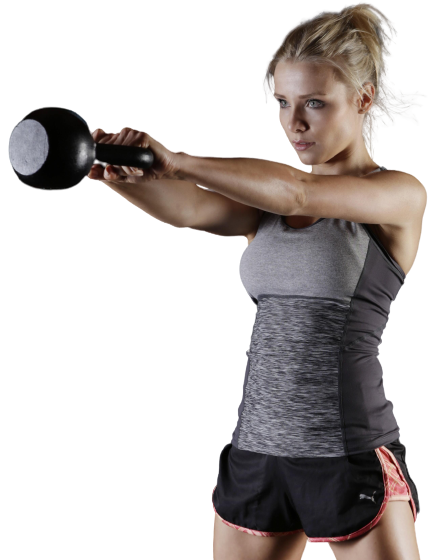
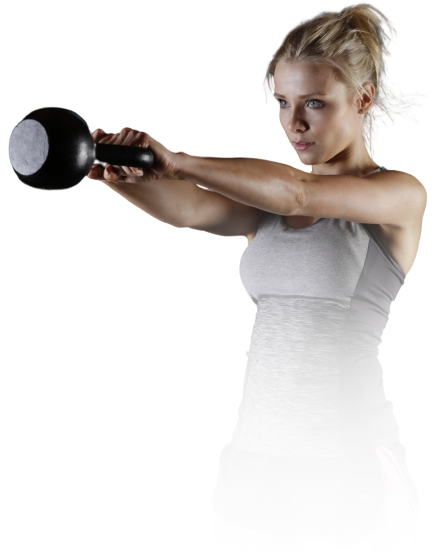
- fade images

Changed region(s): [[0.3798, 0.3643, 0.964, 1.0]]

diff --git a/lib/widgets/animated_circle_transition_widget.dart b/lib/widgets/animated_circle_transition_widget.dart
@@ -1,0 +1,88 @@
+import 'package:flutter/material.dart';
+import 'package:flutter/widgets.dart';
+
+class AnimatedCircleTransitionWidget extends StatefulWidget {
+  final Widget child;
+  final Duration duration;
+  final Duration initialDelayDuration;
+
+  const AnimatedCircleTransitionWidget(
+      {Key? key,
+      required this.child,
+      this.duration = const Duration(milliseconds: 1000),
+      this.initialDelayDuration = const Duration(milliseconds: 2300)})
+      : super(key: key);
+
+  @override
+  _AnimatedCircleTransitionWidgetState createState() => _AnimatedCircleTransitionWidgetState();
+}
+
+class _AnimatedCircleTransitionWidgetState extends State<AnimatedCircleTransitionWidget>
+    with TickerProviderStateMixin {
+  late AnimationController _animationController;
+  late Tween<double> tweenStackPosition;
+  late Tween<double> tweenBorderRadius;
+  late Tween<double> tweenTwist;
+  late Tween<double> tweenHeight;
+  late CurvedAnimation curvedAnimation;
+  int heightAddition = 0;
+
+  @override
+  void initState() {
+    super.initState();
+    _animationController = AnimationController(vsync: this, duration: widget.duration);
+    curvedAnimation = CurvedAnimation(parent: _animationController, curve: Curves.decelerate);
+    tweenBorderRadius = Tween<double>(begin: 1000, end: 0);
+    tweenStackPosition = Tween<double>(begin: -1000, end: 0);
+    tweenTwist = Tween<double>(begin: -1.2, end: 0);
+    tweenHeight = Tween<double>(begin: 0, end: 1000);
+    init();
+  }
+
+  void init() async {
+    await Future.delayed(widget.initialDelayDuration);
+    await _animationController.forward();
+  }
+
+  @override
+  Widget build(BuildContext context) {
+    final widgetSize = MediaQuery.of(context).size.width;
+    return Column(
+      mainAxisAlignment: MainAxisAlignment.center,
+      children: [
+        AnimatedBuilder(
+            child: widget.child,
+            animation: curvedAnimation,
+            builder: (context, child) {
+              return ClipRRect(
+                  borderRadius: getCircleBorderRadius(),
+                  child: Container(
+                      width: widgetSize * curvedAnimation.value,
+                      height: getHeight(widgetSize),
+                      child: Stack(
+                        children: [
+                          Positioned(
+                              right: tweenStackPosition.animate(curvedAnimation).value,
+                              left: tweenStackPosition.animate(curvedAnimation).value,
+                              top: tweenStackPosition.animate(curvedAnimation).value,
+                              bottom: tweenStackPosition.animate(curvedAnimation).value,
+                              child: Transform.rotate(
+                                  angle: tweenTwist.animate(curvedAnimation).value, child: child!)),
+                        ],
+                      )));
+            }),
+      ],
+    );
+  }
+
+  double getHeight(double widgetSize) {
+    if (curvedAnimation.value > 0.8 && heightAddition < 100) {
+      heightAddition += 3;
+    }
+    return widgetSize * curvedAnimation.value + heightAddition;
+  }
+
+  BorderRadius? getCircleBorderRadius() {
+    return BorderRadius.circular(tweenBorderRadius.animate(_animationController).value);
+  }
+}

diff --git a/lib/features/welcome/welcome_page.dart b/lib/features/welcome/welcome_page.dart
@@ -3,6 +3,8 @@ import 'package:flutter/painting.dart';
 import 'package:flutter/widgets.dart';
 import 'package:flutter_app_template/features/welcome/welcome_event.dart';
 import 'package:flutter_app_template/features/welcome/welcome_state.dart';
+import 'package:flutter_app_template/widgets/animated_circle_transition_widget.dart';
+import 'package:flutter_app_template/widgets/shadow_image.dart';
 import 'package:rive/rive.dart' as rive;
 import 'package:template_package/base_widget/base_widget.dart';
 import 'package:template_package/template_package.dart';
@@ -54,26 +56,22 @@ class _WelcomePageState extends BaseState<WelcomePage, BaseBloc> with SingleTick
   Widget getBodyWidget() {
     return Stack(
       children: [
-        SafeArea(child: SizedBox(height: 10)),
         Align(
-          alignment: Alignment.topCenter,
-          child: Column(
-            children: [
-              SafeArea(
-                child: Container(
-                  height: MediaQuery.of(context).size.height * .6,
-                  child: PageView(controller: pageController, children: [
-                    Image.asset('assets/images/run_girl2.png'),
-                    Image.asset('assets/images/run_girl.png'),
-                    Image.asset('assets/images/gym_girl.png'),
-                  ]),
-                ),
-              ),
-            ],
-          ),
-        ),
-        Positioned(right: 0, left: 0, bottom: 0, child: getBottomWidget()),
+            alignment: Alignment.topCenter,
+            child: Container(height: MediaQuery.of(context).size.height * 0.7, child: pageViewer())),
+        Align(alignment: Alignment.bottomCenter, child: getBottomWidget())
       ],
+    );
+  }
+
+  Widget pageViewer() {
+    return Container(
+      child: PageView(controller: pageController, children: [
+           AnimatedCircleTransitionWidget(
+            child: ShadowImage('assets/images/run_girl2.png')),
+        ShadowImage('assets/images/run_girl.png'),
+        ShadowImage('assets/images/gym_girl.png'),
+      ]),
     );
   }
 
@@ -104,8 +102,10 @@ class _WelcomePageState extends BaseState<WelcomePage, BaseBloc> with SingleTick
         builder: (context, AsyncSnapshot<PageIntrosDataState> snapshot) {
           if (snapshot.data == null) return Container();
           return Container(
-              child: Column(
-                  children: [titleWidget(snapshot.data?.title ?? ''), subTitleWidget(snapshot.data?.subTitle ?? '')]));
+              child: Column(children: [
+            titleWidget(snapshot.data?.title ?? ''),
+            subTitleWidget(snapshot.data?.subTitle ?? '')
+          ]));
         });
   }
 

diff --git a/lib/widgets/shadow_image.dart b/lib/widgets/shadow_image.dart
@@ -1,0 +1,32 @@
+import 'dart:ui';
+
+import 'package:flutter/material.dart';
+
+class ShadowImage extends StatelessWidget {
+  final String imagePath;
+  final BoxFit? boxFit;
+
+  const ShadowImage(this.imagePath, {Key? key, this.boxFit = BoxFit.contain}) : super(key: key);
+
+  @override
+  Widget build(BuildContext context) {
+    return Stack(children: [
+      Positioned(
+          top: -10,
+          right: -20,
+          left: 30,
+          bottom: 10,
+          child: Opacity(child: Image.asset(imagePath, color: Colors.black, fit: boxFit), opacity: 0.35)),
+      Positioned(
+        top: 0,
+        right: 0,
+        left: 0,
+        bottom: 0,
+        child: ClipRect(
+            child: BackdropFilter(
+                filter: ImageFilter.blur(sigmaX: 14.0, sigmaY: 8.0),
+                child: Image.asset(imagePath, fit: boxFit))),
+      )
+    ]);
+  }
+}

diff --git a/lib/features/welcome/welcome_state.dart b/lib/features/welcome/welcome_state.dart
@@ -21,9 +21,9 @@ class FirstShadeDataState extends PageIntrosDataState {
 }
 
 class SecondShadeDataState extends PageIntrosDataState {
-  SecondShadeDataState({required String title, required String subTitle}) : super(Colors.pink[300]!, title, subTitle);
+  SecondShadeDataState({required String title, required String subTitle}) : super(Colors.black54, title, subTitle);
 }
 
 class ThirdShadeDataState extends PageIntrosDataState {
-  ThirdShadeDataState({required String title, required String subTitle}) : super(Colors.deepOrange, title, subTitle);
+  ThirdShadeDataState({required String title, required String subTitle}) : super(Colors.blueGrey, title, subTitle);
 }
